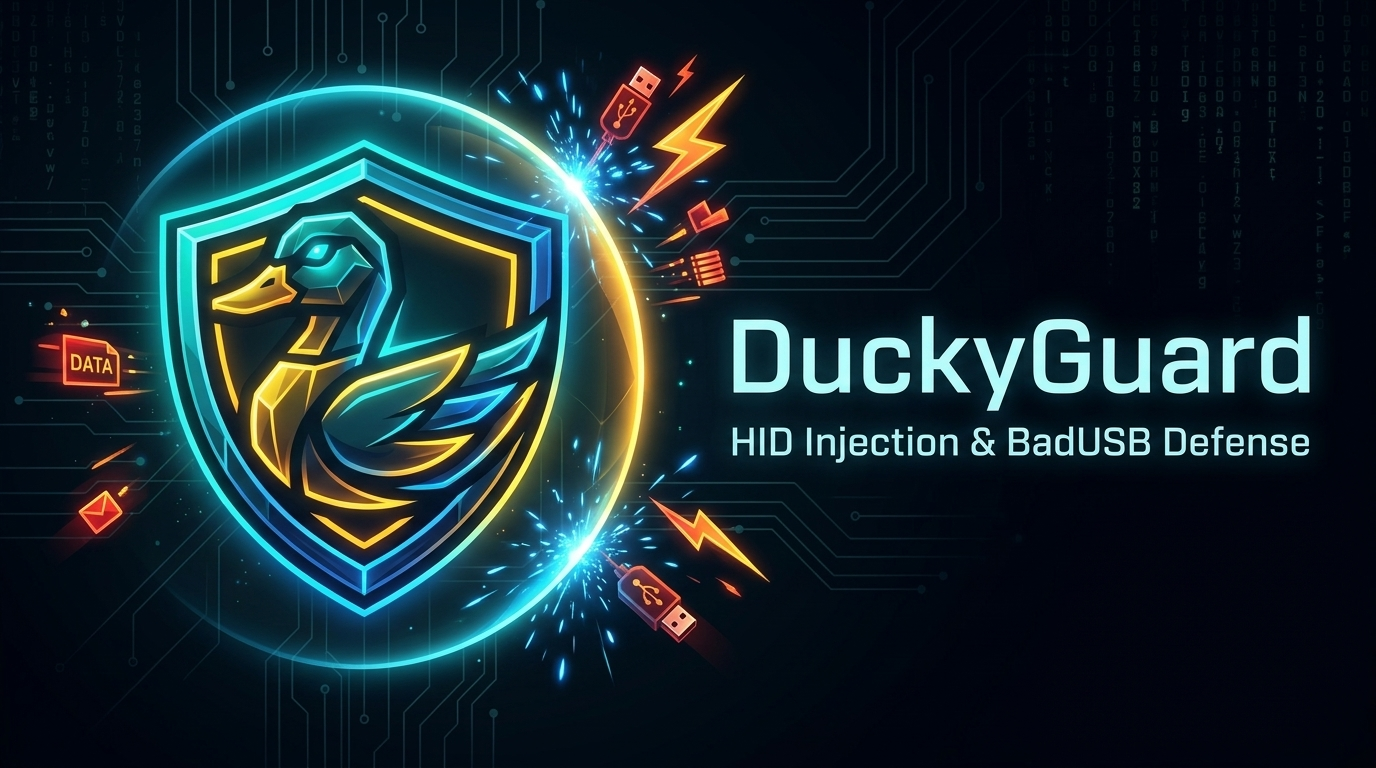
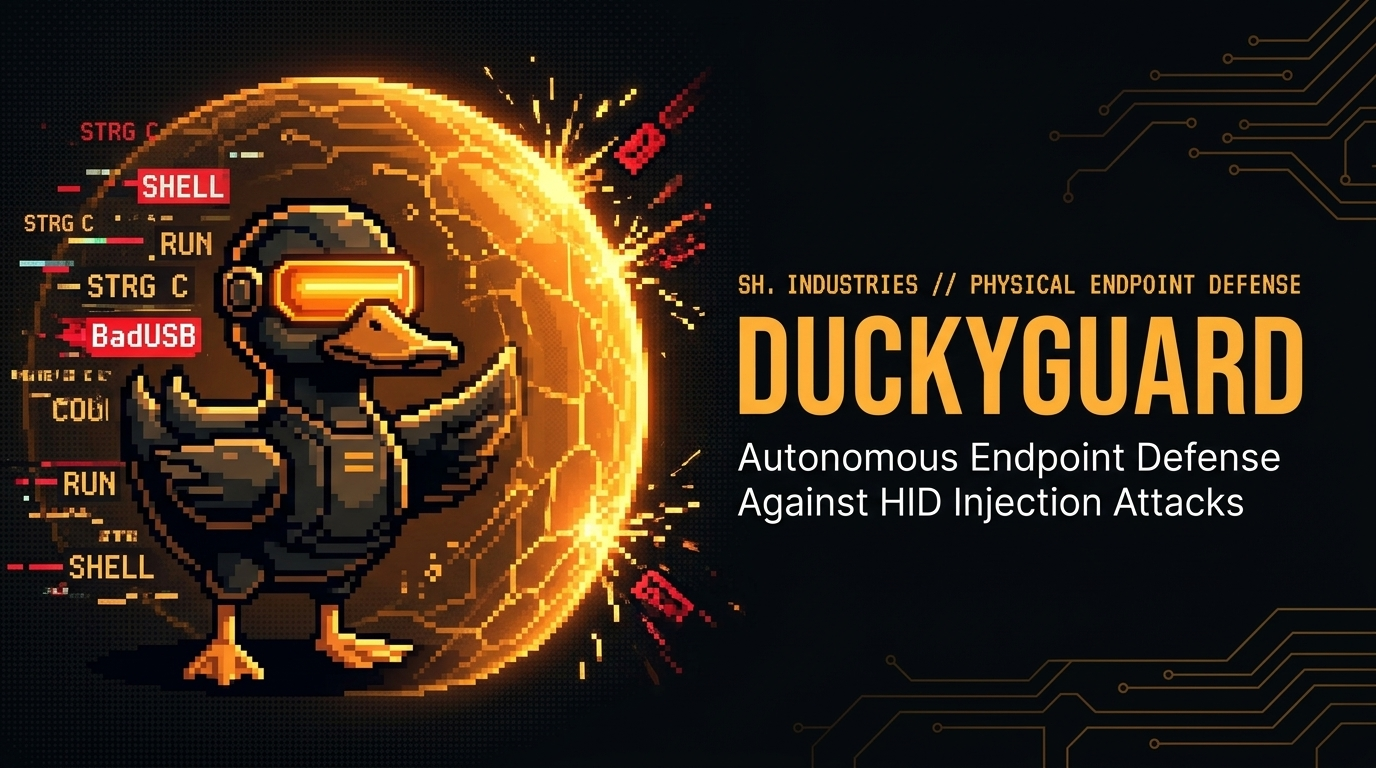
Update DuckyGuard branding: Cyber Amber pixel mascot & sh. industries design system

diff --git a/docs/BRAND_SPEC.md b/docs/BRAND_SPEC.md
@@ -1,0 +1,43 @@
+# DuckyGuard Brand Specification
+**A product by sh. industries · Engineered by Steven Hainley**
+
+DuckyGuard adopts the **sh. industries** design philosophy: *clean, premium, dark-matte restraint with retro pixel craft reserved strictly for the mascot and eyebrow kickers.*
+
+---
+
+## 1. Visual Identity & Brand Pillars
+
+1. **Pixel Mascot ("Ducky")**:
+   - The mascot is the **only** element that is fully 16-bit pixelated.
+   - Design: Black/ink silhouette with crisp off-white edges, sporting a tactical glowing **Cyber Amber** (`#FF7A00`) visor and beak.
+   - Always rendered with `image-rendering: pixelated;` to preserve crisp edges without bilinear smoothing.
+2. **Restraint & Cyberpunk Realism**:
+   - No cheesy CRT scanlines or messy 90s hacker green.
+   - Dark matte obsidian paper (`#0E0E0D`), clean monospace telemetry, and focused amber accents.
+3. **Typography**:
+   - **Headings / Wordmark**: *Funnel Display* / *SF Pro Display* (Weight: 700/800, tight tracking).
+   - **Eyebrow Kickers**: *Departure Mono* / *Geist Pixel* (Uppercase, tracking: `0.18em`, 11–13px).
+   - **Terminal & Forensics**: *Menlo* / *SF Mono* (Weight: 500).
+
+---
+
+## 2. Color Palette (Cyber Amber)
+
+| Token | Hex Value | Usage |
+| :--- | :--- | :--- |
+| **Ink (Background)** | `#0E0E0D` | Main dark matte surface |
+| **Ink 2 (Panel)** | `#1A1A17` | Card backgrounds, dialog containers |
+| **Paper (Text)** | `#F7F6F1` | Primary readable text & headings |
+| **Amber (Primary Brand)** | `#FF7A00` | Visor glow, CTA accents, shield border |
+| **Amber Hot (Glow)** | `#FFA31A` | Incident highlights, telemetry tags |
+| **Red (Quarantine Alert)** | `#EF4444` | Active attack intercepted state |
+| **Muted Grey** | `#85827A` | Sub-labels, borders, secondary metadata |
+
+---
+
+## 3. Brand Copy & Taglines
+
+- **Full Attribution**: *DuckyGuard by sh. industries · Created by Steven Hainley*
+- **Primary Tagline**: *"Autonomous Endpoint Defense Against HID Injection Attacks."*
+- **Hacker Tagline**: *"Because keyboards shouldn't have root."*
+- **Kicker Label**: `SH. INDUSTRIES // PHYSICAL ENDPOINT DEFENSE`
